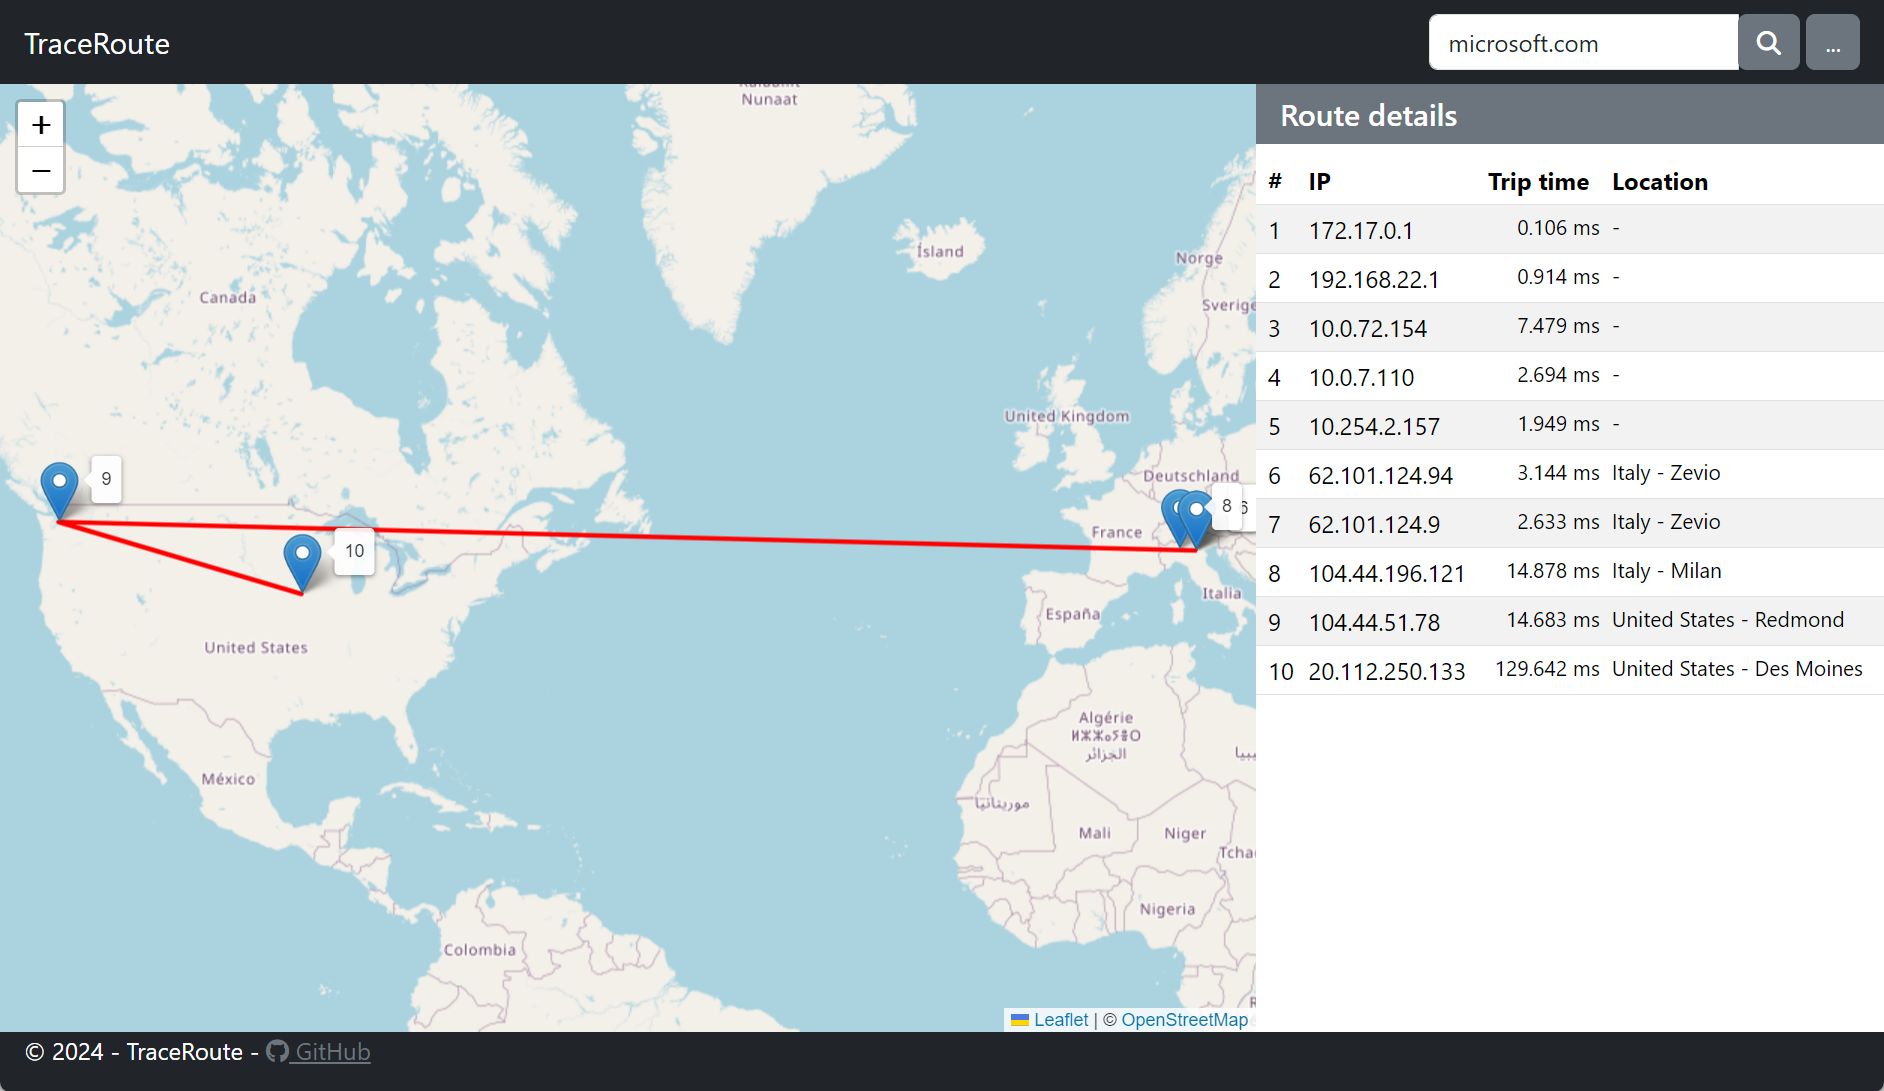
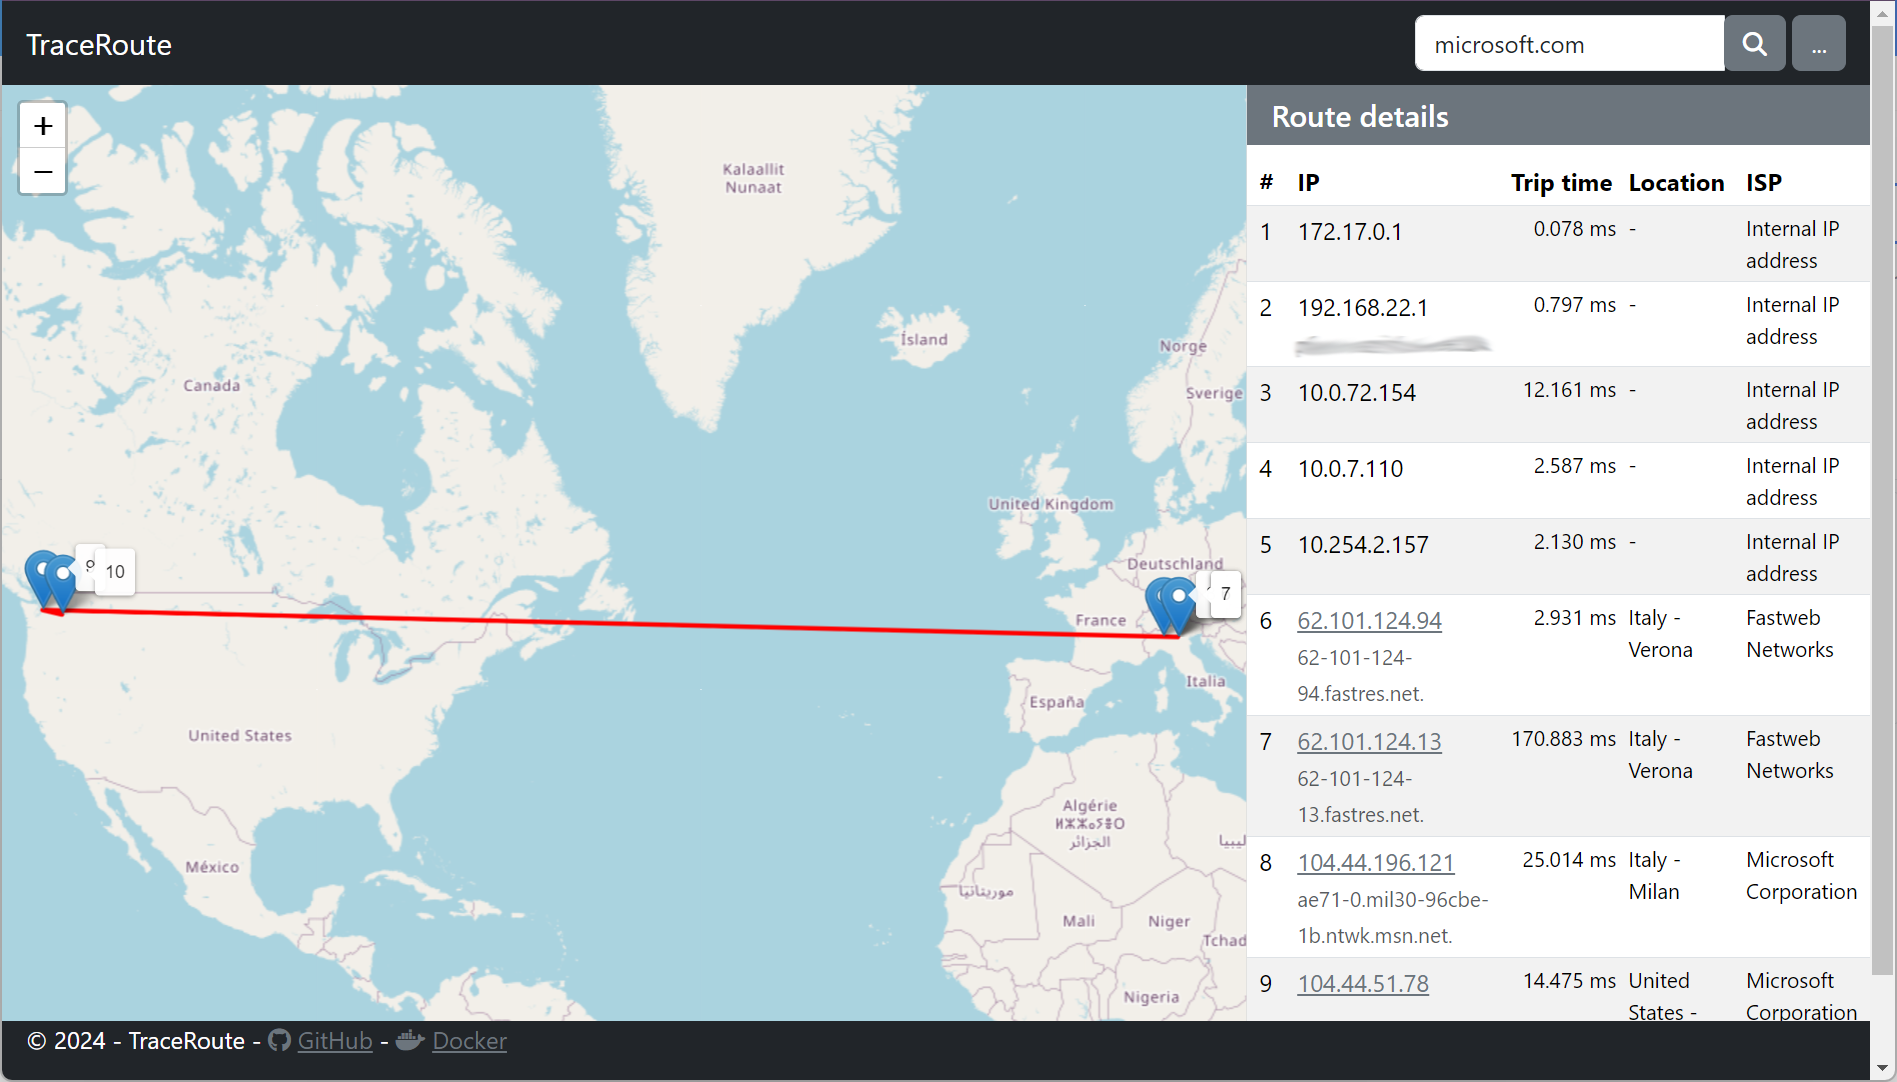
Many UI improvements Click on a mark on the map shows the IP details

diff --git a/TraceRoute/wwwroot/js/site.min.js b/TraceRoute/wwwroot/js/site.min.js
@@ -1,1 +1,1 @@
-function initMap(){map=L.map("map").setView([0,0],2);L.Icon.Default.imagePath="lib/leaflet/images/";const n=L.tileLayer("https://tile.openstreetmap.org/{z}/{x}/{y}.png",{maxZoom:19,attribution:'&copy; <a href="http://www.openstreetmap.org/copyright">OpenStreetMap<\/a>'}).addTo(map);L.Map.include({getMarkerById:function(n){var t=null;return this.eachLayer(function(i){i instanceof L.Marker&&i.options.id===n&&(t=i)}),t}})}function addMarker(n,t,i){var r=L.marker([n,t],{id:"marker_"+i}).bindTooltip(i,{permanent:!0,direction:"right"}).on("mouseover",hilightHopTable).addTo(map);markers.push[r]}function hilightHopTable(){var t=this.getTooltip(),n=".tr_hop_"+t.getContent();$(n).addClass("highlight");setTimeout(function(){$(n).removeClass("highlight")},2e3)}function hilightTooltip(n){const i=$(n).data("index-value"),t=map.getMarkerById("marker_"+i);t!=null&&($(t._icon).addClass("highlight"),setTimeout(function(){$(t._icon).removeClass("highlight")},1e3))}function clearMarkersAndPaths(){map.eachLayer(n=>{(n._latlng!=undefined||n._path!=undefined)&&n.remove()});markers=[];polyline=undefined}function drawPath(n){var t=[],i;if(n.find(n=>n.details==undefined||n.details.isp==undefined)==undefined){for(let r=0;r<n.length;r++)n[r].details&&n[r].details.latitude&&n[r].details.longitude&&(i=new L.latLng(n[r].details.latitude,n[r].details.longitude),t.push(i));polyline=L.polyline(t,{color:"red"}).addTo(map);map.fitBounds(polyline.getBounds())}}var map,polyline,markers=[];$(function(){initMap()});
+function initMap(){map=L.map("map").setView([0,0],2);L.Icon.Default.imagePath="lib/leaflet/images/";const n=L.tileLayer("https://tile.openstreetmap.org/{z}/{x}/{y}.png",{maxZoom:19,attribution:'&copy; <a href="http://www.openstreetmap.org/copyright">OpenStreetMap<\/a>'}).addTo(map);L.Map.include({getMarkerById:function(n){var t=null;return this.eachLayer(function(i){i instanceof L.Marker&&i.options.id===n&&(t=i)}),t}})}function addMarker(n,t,i,r){var u=L.marker([n,t],{id:"marker_"+i}).bindTooltip(i,{permanent:!0,direction:"right"}).on("mouseover",hilightHopTable).on("click",function(){ipDetailsJS(r)}).addTo(map);markers.push[u]}function ipDetailsJS(n){var t=angular.element(document.querySelector("body")).controller();t.IpDetails(n)}function hilightHopTable(){var t=this.getTooltip(),n=".tr_hop_"+t.getContent();$(n).addClass("highlight");setTimeout(function(){$(n).removeClass("highlight")},2e3)}function hilightTooltip(n){const i=$(n).data("index-value"),t=map.getMarkerById("marker_"+i);t!=null&&($(t._icon).addClass("highlight"),setTimeout(function(){$(t._icon).removeClass("highlight")},1e3))}function clearMarkersAndPaths(){map.eachLayer(n=>{(n._latlng!=undefined||n._path!=undefined)&&n.remove()});markers=[];polyline=undefined}function drawPath(n){var t=[],i;if(n.find(n=>n.details==undefined||n.details.isp==undefined)==undefined){for(let r=0;r<n.length;r++)n[r].details&&n[r].details.latitude&&n[r].details.longitude&&(i=new L.latLng(n[r].details.latitude,n[r].details.longitude),t.push(i));polyline=L.polyline(t,{color:"red"}).addTo(map);map.fitBounds(polyline.getBounds())}}var map,polyline,markers=[];$(function(){initMap()});

diff --git a/TraceRoute/wwwroot/css/site.min.css b/TraceRoute/wwwroot/css/site.min.css
@@ -1,1 +1,1 @@
-html,body{min-height:100vh;padding:0}.fullHeight{height:calc(100vh - 95px)}.tr-map{height:100%}.highlight{animation:highlight 2s;z-index:450!important}ul{margin:0}.HalfStrong{font-weight:300}@keyframes highlight{0%{background:#ff9}100%{background:none}}@media only screen and (max-width:600px){body{display:flex;min-height:100vh;flex-direction:column}.mobile-max-50{min-height:15vh}.mobile-max-50 table{margin-bottom:60px !important}.mobile-50{min-height:45vh}}
+html,body{min-height:100vh;padding:0}.fullHeight{height:calc(100vh - 95px)}.tr-map{height:100%}.highlight{animation:highlight 2s;z-index:450!important}ul{margin:0}@keyframes highlight{0%{background:#ff9}100%{background:none}}@media only screen and (max-width:600px){body{display:flex;min-height:100vh;flex-direction:column}.mobile-max-50{min-height:15vh}.mobile-max-50 table{margin-bottom:60px !important}.mobile-50{min-height:45vh}}

diff --git a/TraceRoute/wwwroot/js/traceRouteController.js b/TraceRoute/wwwroot/js/traceRouteController.js
@@ -49,9 +49,10 @@
                                         var hostDetail = angular.fromJson(responseDetail).data;
                                         vm.HostList[i].details = hostDetail;
                                         if (hostDetail.longitude && hostDetail.latitude) {
-                                            addMarker(hostDetail.latitude, hostDetail.longitude, (i + 1).toString());
+                                            addMarker(hostDetail.latitude, hostDetail.longitude, (i + 1).toString(), vm.HostList[i].hopAddress);
                                             drawPath(vm.HostList);
                                         }
+                                        $(window).trigger('resize');
                                     }
                             );
                         }

diff --git a/TraceRoute/wwwroot/js/site.js b/TraceRoute/wwwroot/js/site.js
@@ -28,7 +28,7 @@ function initMap() {
 	});
 }
 
-function addMarker(lat, long, text) {
+function addMarker(lat, long, text, ipAddress) {
 	var marker = L.marker([lat, long], {id: 'marker_' + text})
 		.bindTooltip(text,
 			{
@@ -36,10 +36,15 @@ function addMarker(lat, long, text) {
 				direction: 'right'
 			})
 		.on('mouseover', hilightHopTable)
+		.on('click', function (evt) { ipDetailsJS(ipAddress); })
 		.addTo(map);
 	markers.push[marker];
 }
 
+function ipDetailsJS(ipAddress) {
+	var scope = angular.element(document.querySelector("body")).controller();
+	scope.IpDetails(ipAddress);
+}
 function hilightHopTable() {
 	var tooltip = this.getTooltip();
 	var hopRowID = ".tr_hop_" + tooltip.getContent();

diff --git a/TraceRoute/wwwroot/css/site.css b/TraceRoute/wwwroot/css/site.css
@@ -20,10 +20,6 @@ ul {
     margin: 0px
 }
 
-.HalfStrong {
-    font-weight: 400
-}
-
 @keyframes highlight {
     0% {
         background: #ffff99;

diff --git a/TraceRoute/Controllers/APIController.cs b/TraceRoute/Controllers/APIController.cs
@@ -151,7 +151,7 @@ namespace TraceRoute.Controllers
 
             try
             {
-                _logger.LogDebug("Requested IPDetails for: {0}", ipAddress);
+                _logger.LogInformation("Requested IPDetails for: {0}", ipAddress);
 
                 if (!_bogonIPService.IsBogonIP(ipAddress))
                 {

diff --git a/README.md b/README.md
@@ -15,10 +15,10 @@ Based on the original repository: https://github.com/bencorn/traceroute
 
 ### Running in Docker
 You can use the following image to run Visual Trace Route locally:
-michele73/traceroute:1.1.2
+michele73/traceroute:1.2
 
 Example:
-docker run -d -p 8081:80 --name=traceroute --restart=always -v traecroute_logs:/app/logs michele73/traceroute:1.1.2
+docker run -d -p 8081:80 --name=traceroute --restart=always -v traecroute_logs:/app/logs michele73/traceroute:1.2
 
 The image repository is here: https://hub.docker.com/r/michele73/traceroute
 
